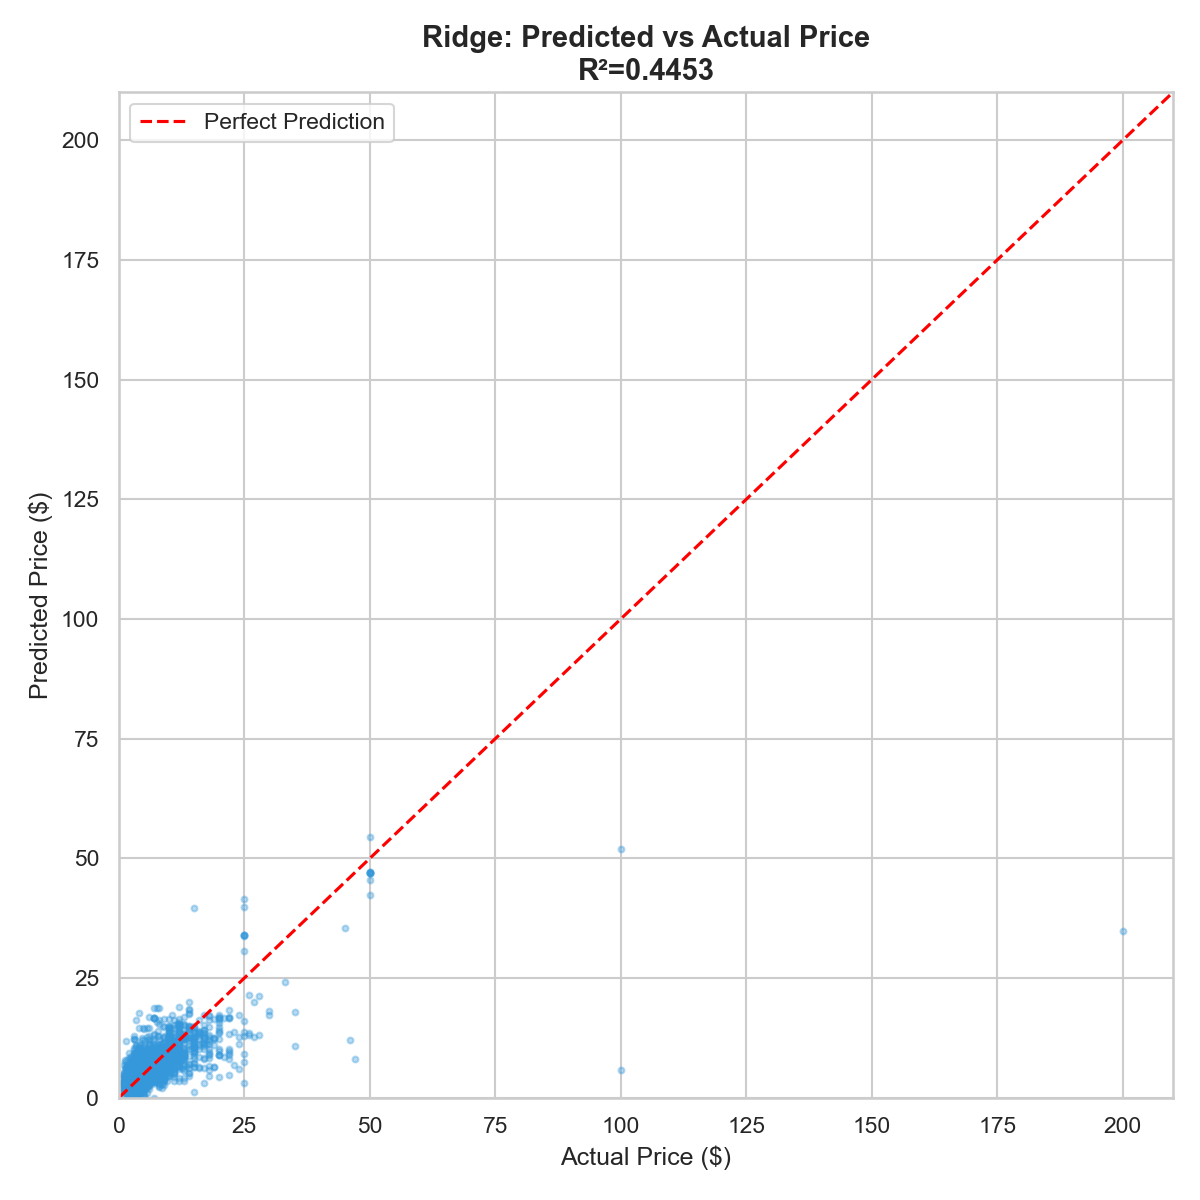
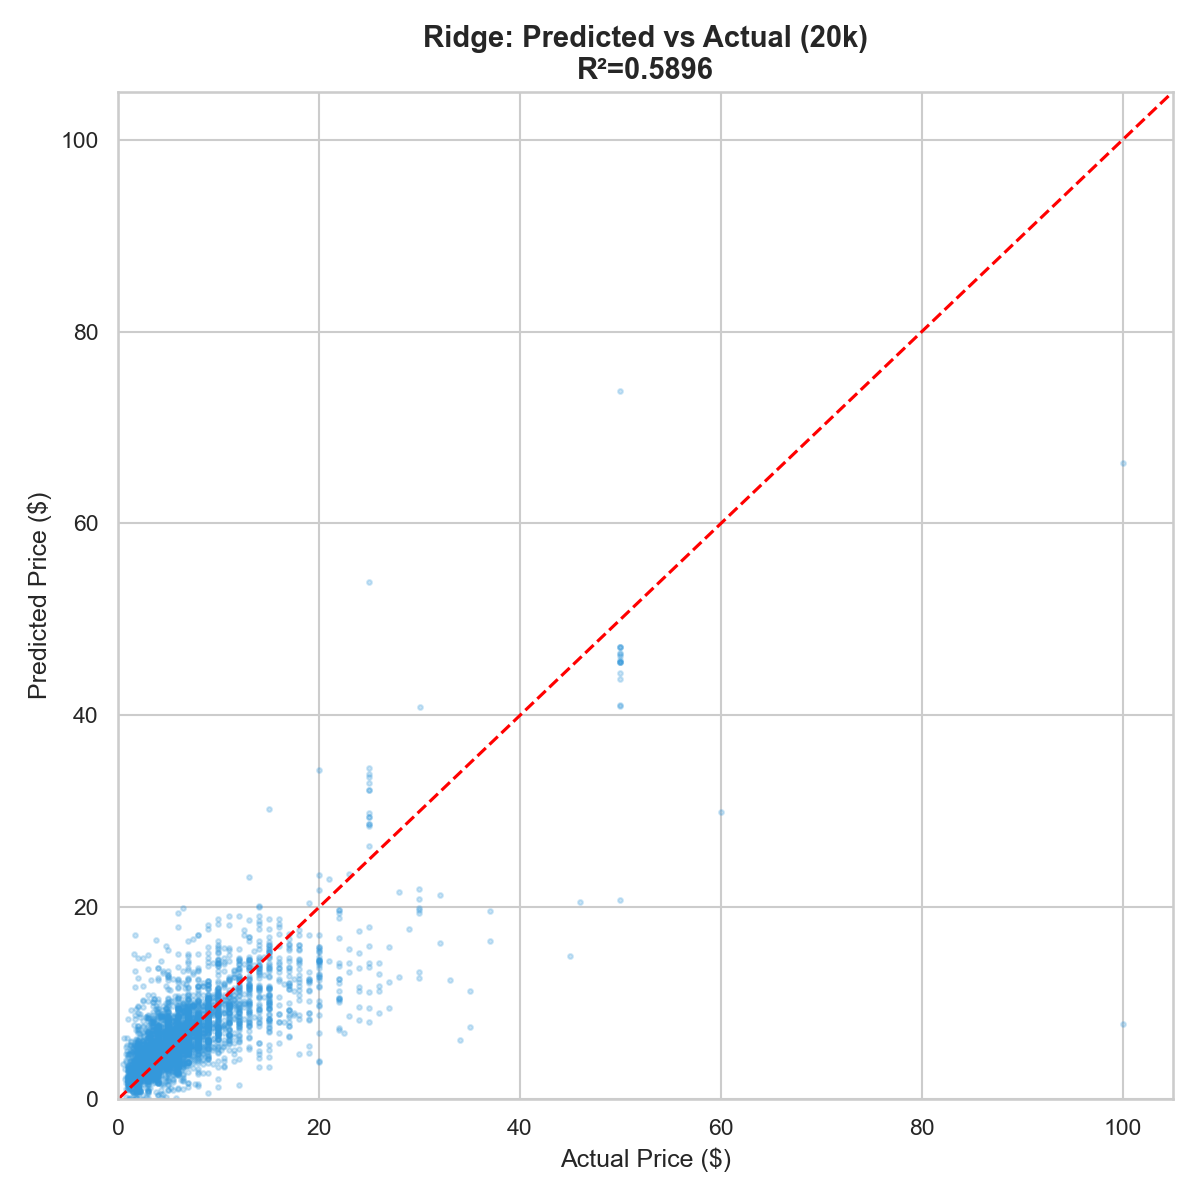
feat: update GitHub Pages with 20k catalog — R²=0.590, RMSE=$3.77

diff --git a/docs/index.html b/docs/index.html
@@ -517,7 +517,7 @@
       <h1>King Kullen<br>Price Research</h1>
       <p class="hero-sub">A living catalog, crawled weekly.</p>
       <p class="hero-body">
-        9,834 unique products. 297 sub-categories. Every item pulled directly from King Kullen's
+      <p>20,716 unique products. 423 sub-categories. Every item pulled directly from King Kullen's
         Freshop API — not scraped from pages. Prices recorded weekly via GitHub Actions. The goal
         is a multi-month time series: enough data to train a pricing model that actually generalizes.
       </p>
@@ -525,11 +525,11 @@
 
     <div class="hero-stats">
       <div class="stat-block">
-        <div class="stat-value">9,<span>834</span></div>
+        <div class="stat-value">20,<span>716</span></div>
         <div class="stat-label">Unique Products Tracked</div>
       </div>
       <div class="stat-block">
-        <div class="stat-value"><span>297</span></div>
+        <div class="stat-value"><span>423</span></div>
         <div class="stat-label">Sub-Categories Mapped</div>
       </div>
       <div class="stat-block">
@@ -594,7 +594,7 @@
     <div class="section-header">
       <p class="section-eyebrow">Price Prediction Model</p>
       <h2>Ridge regression on product name and category</h2>
-      <p>Two models trained. One winner. Ridge outperforms Gradient Boosting here because the feature space is high-dimensional and sparse. TF-IDF over product names creates 2,000+ dimensions — exactly the regime where regularized linear models shine.</p>
+      <p>Two models trained on 20,716 items. One winner. Ridge outperforms Gradient Boosting here because the feature space is high-dimensional and sparse. TF-IDF over product names creates 3,000+ dimensions — exactly the regime where regularized linear models shine.</p>
     </div>
 
     <div class="metrics-grid">
@@ -606,17 +606,17 @@
       </div>
       <div class="metric-card">
         <div class="metric-name">R² Score</div>
-        <div class="metric-value">0.445</div>
-        <div class="metric-sub">vs. 0.42 baseline (+6%)</div>
+        <div class="metric-value">0.590</div>
+        <div class="metric-sub">vs. 0.445 on 9k items (+32%)</div>
       </div>
       <div class="metric-card">
         <div class="metric-name">RMSE</div>
-        <div class="metric-value">$5.86</div>
+        <div class="metric-value">$3.77</div>
         <div class="metric-sub">Root mean squared error</div>
       </div>
       <div class="metric-card">
         <div class="metric-name">MAE</div>
-        <div class="metric-value">$2.66</div>
+        <div class="metric-value">$2.21</div>
         <div class="metric-sub">Mean absolute error</div>
       </div>
     </div>
@@ -625,15 +625,15 @@
       <div class="chart-card">
         <img src="assets/model_comparison.png" alt="Model Comparison">
         <div class="chart-caption">
-          <h3>Ridge vs. Gradient Boosting</h3>
-          <p>Ridge at R²=0.445 edges out Gradient Boosting at 0.430. Both beat the old name-only baseline of 0.42. The gap will close as the dataset grows with weekly snapshots and we can start engineering time-series features.</p>
+          <h3>Ridge vs. Gradient Boosting (20k items)</h3>
+          <p>Ridge at R²=0.590 edges out GBM at 0.519. The 9k baseline was 0.445 — doubling the dataset delivered a clean +32% lift. The gap will continue widening as weekly snapshots accumulate.</p>
         </div>
       </div>
       <div class="chart-card">
         <img src="assets/predicted_vs_actual.png" alt="Predicted vs Actual Prices">
         <div class="chart-caption">
-          <h3>Predicted vs. actual price</h3>
-          <p>Each dot is a product from the 20% test holdout. Points cluster tightly near the diagonal for everyday staples. Outliers are premium SKUs — party platters, specialty cuts — where the model undershoots because the training set has fewer examples.</p>
+          <h3>Predicted vs. actual price (20k)</h3>
+          <p>Each dot is a product from the 4,143-item test holdout. Points cluster tightly near the diagonal for everyday staples. The model now generalises visibly better than the 9k run — the scatter cloud is narrower, and the diagonal is cleaner through the $5–$25 range.</p>
         </div>
       </div>
     </div>
@@ -641,8 +641,8 @@
     <div class="chart-full">
       <img src="assets/residuals.png" alt="Residuals Distribution">
       <div class="chart-caption">
-        <h3>Residuals are well-behaved</h3>
-        <p>Bell-shaped distribution centered near zero. The slight right skew confirms the premium-product underestimation. No signs of systematic bias. The model is ready for retraining on weekly snapshot data as the time series accumulates.</p>
+          <h3>Residuals tighten with more data</h3>
+          <p>Bell-shaped, centered near zero, noticeably narrower than the 9k run. RMSE dropped from $5.86 to $3.77 — purely from having 2.1x more training examples. This confirms the earlier hypothesis: data volume was the binding constraint, not model architecture.</p>
       </div>
     </div>
   </section>
@@ -703,7 +703,7 @@
   <!-- Footer -->
   <footer>
     <p>King Kullen Research &mdash; <a href="https://github.com/frankstop/KingKullenResearch">frankstop/KingKullenResearch</a></p>
-    <p>Updated weekly via GitHub Actions. Last crawl: 9,834 items across 297 categories.</p>
+    <p>Updated weekly via GitHub Actions. Last crawl: 20,716 items across 423 categories.</p>
   </footer>
 
 </body>
